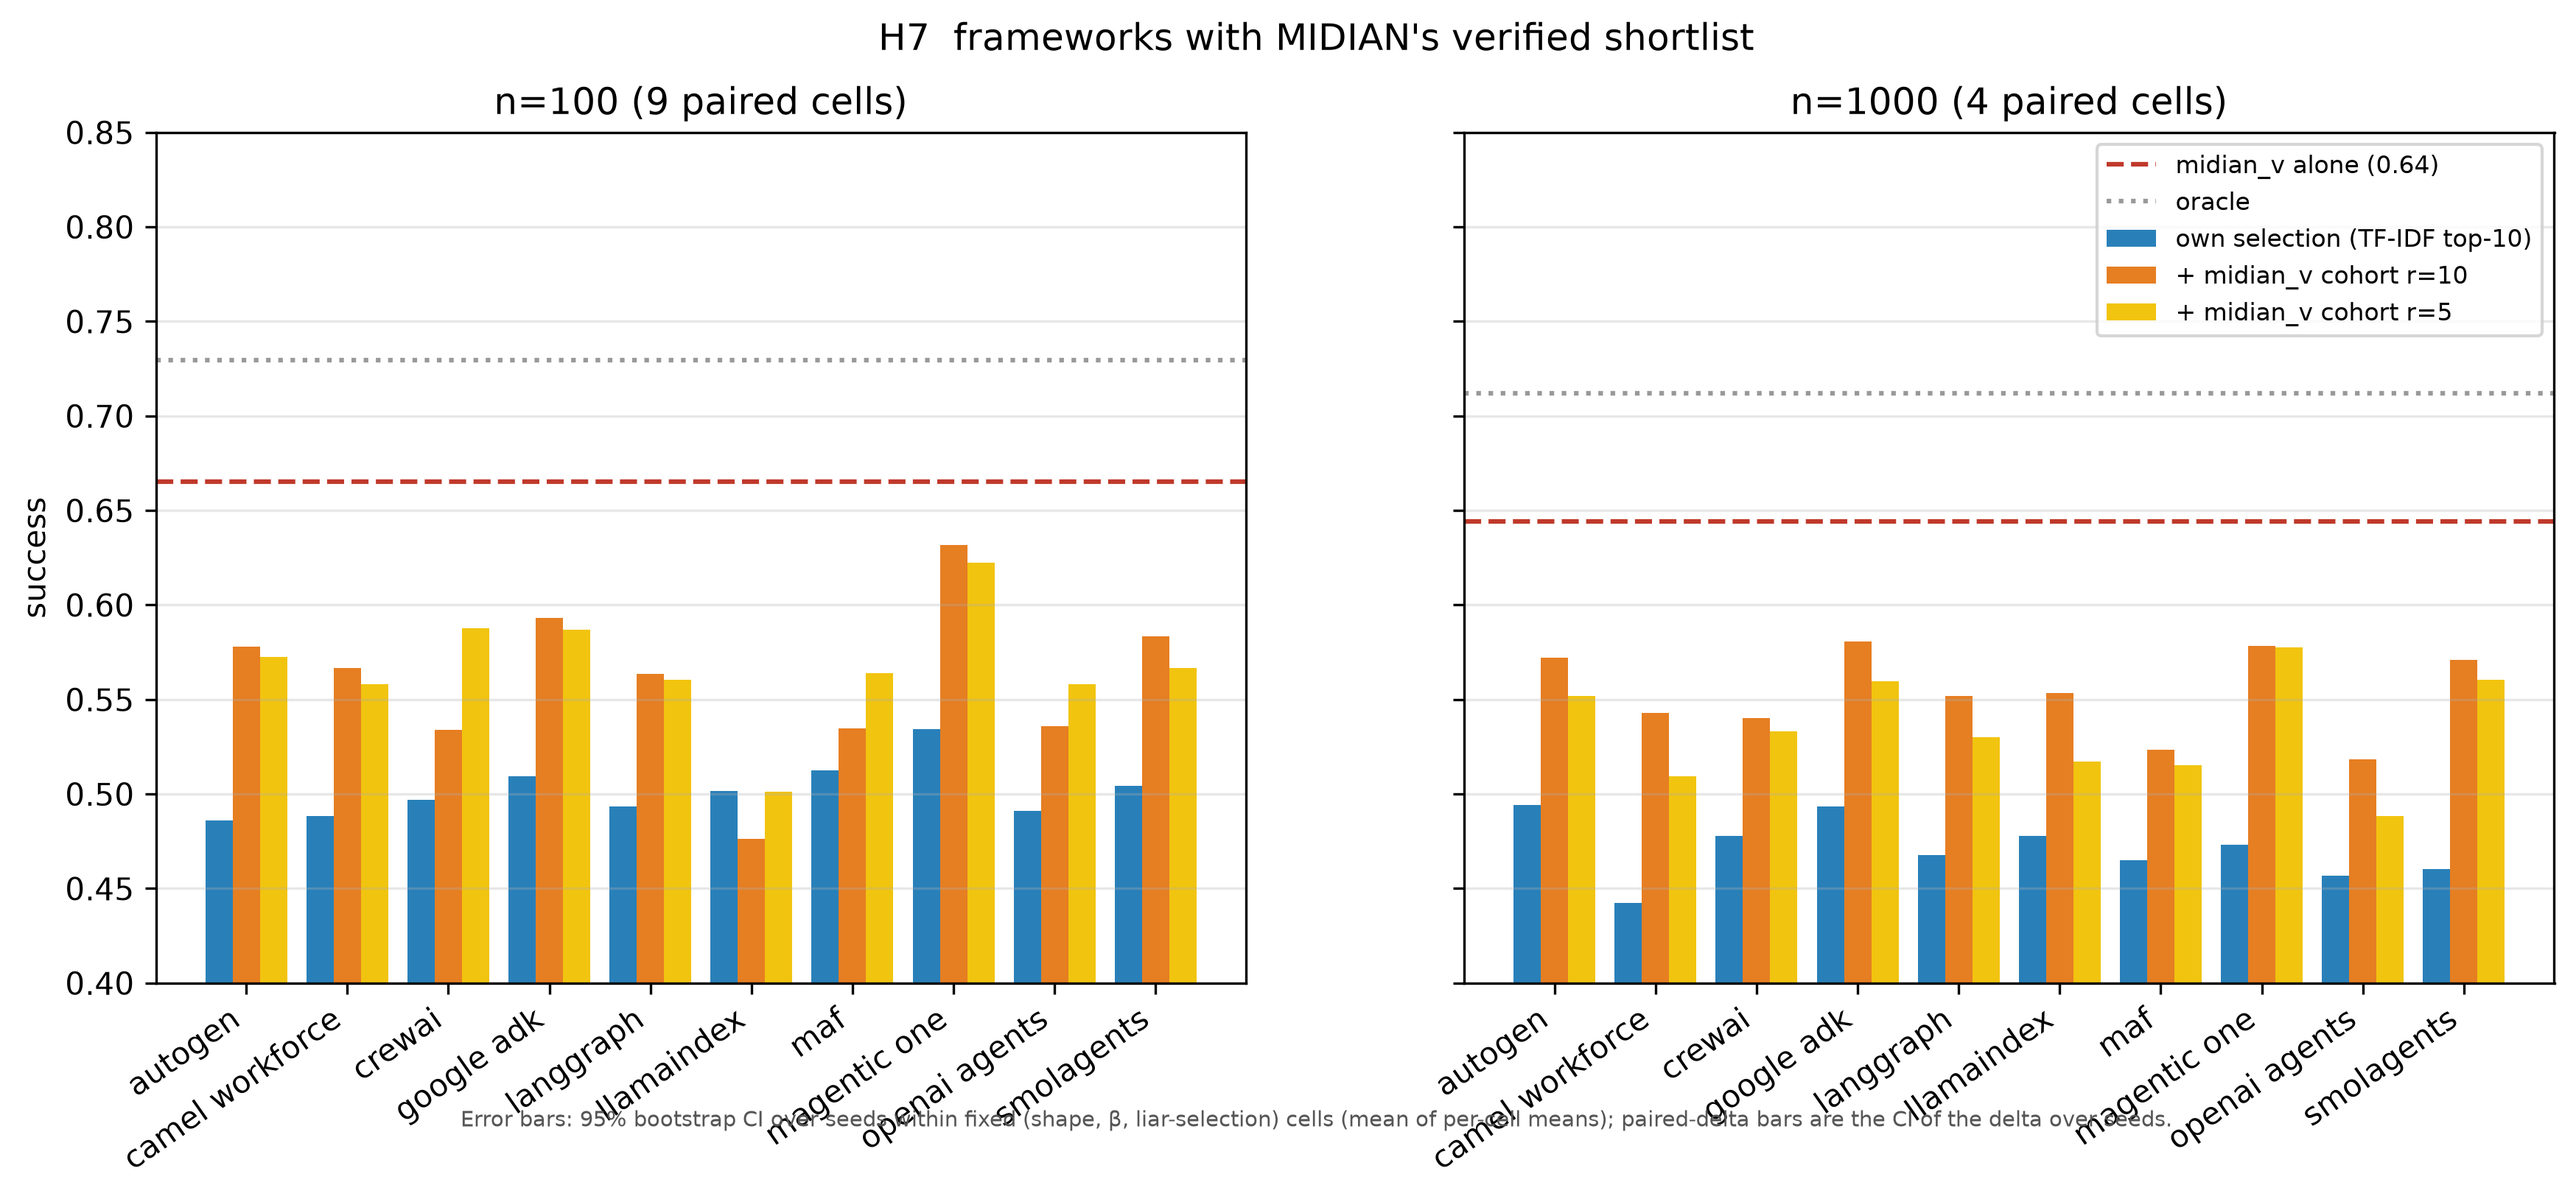
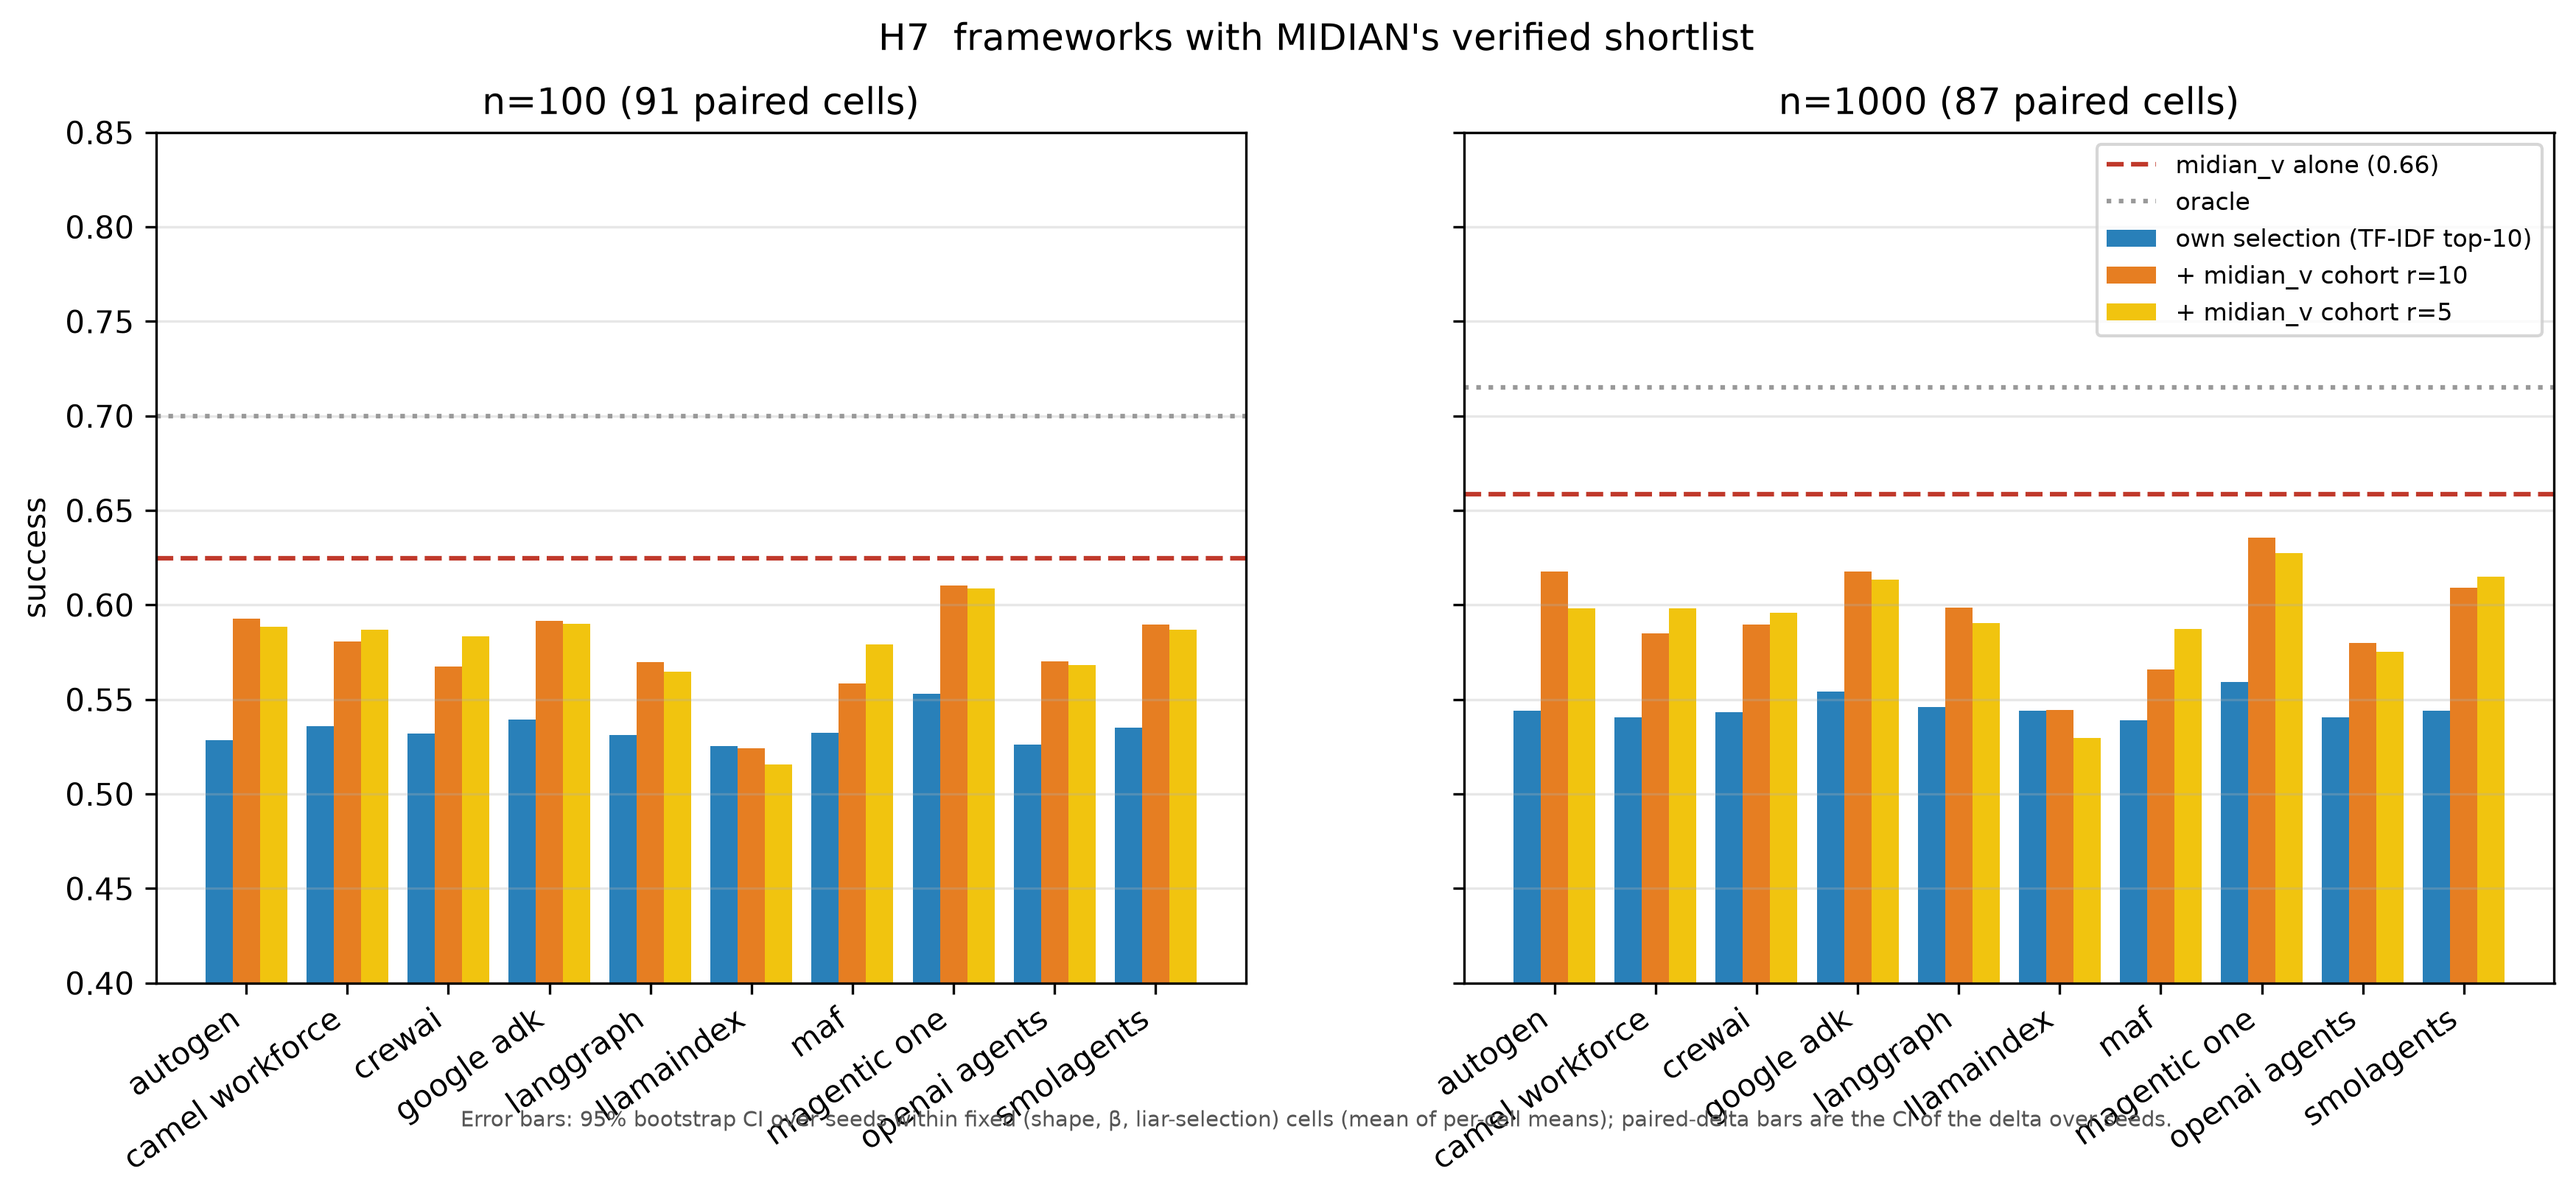
verified shortlist §1b (nine of ten frameworks +0.03..0.09, none reaches MIDIAN-V) + H7; RouterEval validation-tuned rerun complete (probe table 0.630 = best single; their kNN k=50 0.627; LinearR 0.667) -> Table 6 FINAL, X4

diff --git a/scripts/v3_figs.py b/scripts/v3_figs.py
@@ -31,12 +31,13 @@ def X3():
 
 def X4():
     R = os.environ.get("RTE_DATA", "/n/netscratch/sompolinsky_lab/Lab/rsiegelmann/rte"); df = pd.read_csv(f"{R}/results/routereval_terms/rows.csv")
-    show = ["oracle (theirs)", "LinearR (theirs, ridge)", "MLPR (theirs, sklearn)", "C-RoBERTa-cluster (theirs)", "Avengers top-1 K=64 (AAAI26, full labels)", "EmbedLLM MF (ICLR25, dim64 5ep)", "PRKnn (theirs)", "best single model", "probe_cluster16_b30", "probe_cluster16_b10", "probe_cluster3_b30", "random (theirs)"]
+    df["router"] = df.router.str.replace(r" \[val-tuned: .*\]$", " [tuned]", regex=True)
+    show = ["oracle (theirs)", "LinearR (theirs, ridge) [tuned]", "EmbedLLM MF (ICLR25) [tuned]", "MLPR (theirs, sklearn) [tuned]", "cluster table, full labels (C-RoBERTa-cluster / Avengers top-1) [tuned]", "PRKnn (theirs) [tuned]", "PRKnn (theirs)", "Avengers top-1 K=64 (AAAI26, full labels)", "best single model", "probe table [tuned]", "probe_cluster16_b30", "probe_cluster16_b10", "random (theirs)"]
     show = [s for s in show if s in set(df.router)]
-    fig, ax = plt.subplots(figsize=(9, 5)); t = df.groupby(["router", "m"]).mu.mean().unstack(); ax.set_prop_cycle(color=plt.cm.tab20.colors)
+    fig, ax = plt.subplots(figsize=(9.5, 5.5)); t = df.groupby(["router", "m"]).mu.mean().unstack(); ax.set_prop_cycle(color=plt.cm.tab20.colors)
     for s in show: ax.plot(t.columns, t.loc[s], marker="o", lw=2 if "probe" in s else 1.1, ls="--" if "probe" in s else "-", label=s)
     ax.set_xscale("log"); ax.set_xlabel("candidate pool size m (real LLMs)"); ax.set_ylabel("μ = mean test score of the routed model (12 datasets × 3 pools)"); ax.grid(alpha=.3); ax.legend(fontsize=7)
-    ax.set_title("X4  RouterEval on its own terms: their baselines, SOTA routers, and the probe-family table"); fig.savefig(f"{O}/X4_routereval_terms.png", dpi=300, bbox_inches="tight"); print("[X4] written")
+    ax.set_title("X4  RouterEval on its own terms (validation-tuned where marked): their baselines, SOTA routers, probe table"); fig.savefig(f"{O}/X4_routereval_terms.png", dpi=300, bbox_inches="tight"); print("[X4] written")
 
 
 def X5():

diff --git a/RESULTS.md b/RESULTS.md
@@ -91,17 +91,19 @@ path update (commit 3415f03). Wall-clock is reported only in the supervisor-late
 - Missing: 71 (n = 1,000) and 76 (n = 100) rows, almost all Magentic-One; the other eight frameworks move < 0.005.
 - Phase-1 replication (Q = 300, 3 seeds, 60 cells, earlier adapters): frameworks 0.51–0.54 vs MIDIAN 0.637 / V 0.659.
 
-### II.2 Why the frameworks lose, and what repairs them — legibility **FINAL**, verified shortlist **TODO**
+### II.2 Why the frameworks lose, and what repairs them — legibility **FINAL**, verified shortlist **PROVISIONAL (99%)**
 
 - The frameworks' only signal is the self-description, which over-claims by +0.4 (clipped) and correlates with true
   skill at Spearman **0.443** (specialist), **0.194** (heavy_tail), **0.295** (bimodal).
 - On **bimodal** populations every framework sits on the oracle (strong agents are strong everywhere, so description ≈
   skill). On **specialist** populations they collapse to **0.39 vs MIDIAN's 0.75**. The framework − MIDIAN gap is
   monotone in within-family legibility (Fig. H2).
-- **Verified shortlist (Fig. H7).** Phase 1: handing each framework MIDIAN-V's verified cohort as its shortlist lifted every
-  one by +0.04 to +0.12. **TODO:** the phase-2 table (10 frameworks × n ∈ {100, 1,000} × 10 seeds) needs grids
-  fw_live_n{100,1000}_verified, at 96.5% / 94.2%; missing 87 / 146 rows (Magentic-One 58 each, CAMEL 29 / 55, CrewAI 19);
-  ETA ~05:00 / ~02:00.
+- **Verified shortlist (Fig. H7) — PROVISIONAL (99.4–99.8%; ≤ 15 Magentic-One rows outstanding).** Given MIDIAN-V's
+  verified leaf cohort (r = 10) instead of the TF-IDF top-10, nine of ten frameworks gain +0.03 to +0.09 at n = 1,000
+  (Magentic-One +0.086 [+0.068, +0.103] → 0.632; AutoGen +0.077 → 0.609; smolagents +0.069; ADK +0.064; CrewAI +0.049;
+  LangGraph +0.047; CAMEL +0.040; OpenAI Agents +0.038; MAF +0.030; LlamaIndex +0.007, CI covers 0) and +0.03 to +0.06
+  at n = 100 — and none reaches MIDIAN-V (0.663 / 0.642): the supervisor's own pick among ten verified candidates still
+  costs 0.03–0.12. Full table: RESULTS_rte_v2.md §1b.
 
 ### II.3 The MIDIAN family: add audits first, then verification — **FINAL**
 
@@ -232,31 +234,34 @@ prior but stays below VA at every β and n (T3-7 mixed). Both are immune to liar
 the VA − KNN gap grows with n (HIT); its "within ±0.02 at β = 0" clause MISSES because KNN = flat frozen at every n.
 T3-10 HIT (latency).
 
-### III.4 RouterEval on its own terms (pools of 10 / 100 / 1,000 real LLMs, 12 datasets) — defaults **FINAL**, tuned **PROVISIONAL (9 of 12 datasets)**
+### III.4 RouterEval on its own terms (pools of 10 / 100 / 1,000 real LLMs, 12 datasets) — **FINAL** (defaults and validation-tuned)
 
-*Table 6. m = 1,000 candidates; μ = mean test score of the routed model; mean over 12 datasets × 3 pool types.*
+*Table 6. m = 1,000 candidates; μ = mean test score of the routed model; mean over 12 datasets × 3 pool types. "tuned" =
+hyperparameters selected on RouterEval's own validation split (k for PRKnn, K for cluster tables, α for ridge, width for
+MLPR, dim/epochs for EmbedLLM, b and K for the probe table), so no router is reported at a failure-mode default.*
 
-| router | μ | labelled outcomes |
-|---|---|---|
-| oracle (per prompt) | 0.986 | |
-| LinearR (theirs) | **0.661** | 3.35M |
-| EmbedLLM MF (ICLR 2025) | 0.658 | 3.35M |
-| MLPR (theirs) | 0.645 | 3.35M |
-| C-RoBERTa-cluster (theirs, K = 3) | 0.643 | 3.35M |
-| Avengers top-1, K = 16 (AAAI 2026) | 0.638 | 3.35M |
-| best single model | 0.629 | |
-| **probe table, 16 clusters × 30 probes** | **0.615** | 0.43M (13%) |
-| Avengers top-1, K = 64 (their default) | 0.597 | 3.35M |
-| PRKnn (theirs, k = 5) | 0.489 | 3.35M |
-| random | 0.461 | |
+| router | μ, their defaults | μ, validation-tuned | labelled outcomes |
+|---|---|---|---|
+| oracle (per prompt) | 0.986 | | |
+| LinearR (theirs) | 0.661 | **0.667** (α mostly 10) | 3.35M |
+| EmbedLLM MF (ICLR 2025) | 0.658 | 0.661 | 3.35M |
+| MLPR (theirs) | 0.645 | 0.654 | 3.35M |
+| cluster table, full labels (C-RoBERTa-cluster K = 3 / Avengers top-1) | 0.643 (K = 3) / 0.638 (K = 16) / 0.597 (K = 64, Avengers' default) | 0.647 (K = 3 or 16) | 3.35M |
+| **probe table** (ours; MIDIAN's estimate) | 0.615 (16 clusters × 30 probes) | **0.630** (mostly 16 × 30; 0.26M labels = 8%) | 0.43M / 0.26M |
+| best single model | 0.629 | | |
+| PRKnn (theirs) | 0.489 (k = 5) | 0.627 (k = 50) | 3.35M |
+| random | 0.461 | | |
 
-- Their KNN router is barely above random at 1,000 candidates; a linear probe of the prompt embedding is the strongest
-  published router; prompt-level routers beat the best single model by up to +0.14 on single-task datasets — the
-  headroom is per-prompt (T3-13 MISS). T3-11 HIT by letter (the table is above PRKnn), T3-12 MISS (−0.042 to the same
-  partition with 37× the labels), T3-14 HIT.
-- **Tuned rows** (hyperparameters of every router selected on the benchmark's own validation split, so no rival is
-  reported at a failure-mode default): 9 of 12 datasets in; the tuned table replaces this one when mmlu, mmlu_pro and
-  hellaswag finish (~02:30).
+- Tuning moves their kNN from below-random-plus-a-bit to the best-single-model level (k = 50 instead of 5), lifts the
+  others by 0.003–0.009, and lifts the probe table by 0.015; the ordering is unchanged: a linear probe of the prompt
+  embedding is the strongest published router (+0.038 over the best single model), the probe table sits at the best
+  single model with 8% of the labels, and everything is 0.32 below the per-prompt oracle.
+- Prompt-level routers beat the best single model by up to +0.14 on single-task datasets (gpqa, musr, bbh): the
+  headroom is per-prompt, which no family table sees (T3-13 MISS). T3-11 HIT (tuned probe table within 0.003 of tuned
+  PRKnn); T3-12 MISS (−0.017 to the tuned cluster table with 13× the labels); T3-14 HIT; T3-16 MISS (EmbedLLM +0.031).
+- Per-dataset tuned μ at m = 1,000 (LinearR / EmbedLLM / cluster / probe): mmlu 0.755 / 0.741 / 0.745 / 0.696; bbh 0.727 /
+  0.701 / 0.718 / 0.682; hellaswag 0.761 / 0.755 / 0.754 / 0.721; winogrande 0.811 / 0.816 / 0.790 / 0.756; gsm8k 0.725 /
+  0.745 / 0.725 / 0.722; math 0.463 / 0.449 / 0.463 / 0.414; gpqa 0.422 / 0.408 / 0.381 / 0.369.
 
 ### III.5 MIDIAN and every rival with liars on RouterEval's real LLM pools — **FINAL** except the 5k KNN column
 
@@ -340,8 +345,7 @@ recent routers fail to beat a simple baseline. RouterDC (DeBERTa fine-tune, GPU)
 | Magentic-One tails (7B and 14B arms) on fw_live_n100 / n1000 | 47 + 54 | ~08:00–10:00 | Table 1 FINAL, Appendix E fallback table, README headline |
 | CAMEL / CrewAI / minor stragglers on the same grids | ≈ 40 | same window | — |
 | Low-skill framework grids (Magentic-One 60 + CAMEL 5–7 each) | 65 + 67 | afternoon 09-04 | §II.5 low-skill block FINAL, H1 low-skill panel |
-| Verified-shortlist grids | 87 + 146 | ~05:00 / ~02:00 | §II.2 table, Fig. H7 |
-| RouterEval validation-tuned rerun | 3 datasets | ~02:30 | Table 6 tuned rows, Fig. X4 |
+| Verified-shortlist grids (last Magentic-One rows) | 4 + 15 | ~02:30 | §II.2 → FINAL |
 | Their KNN router at n = 5,000 | 16 rows | ~04:30 | Table 7 one column, Fig. X5 |
 | Final pass | — | after the above | energy tables re-synced (§II.6), memo compaction, STATUS, memory |
 
@@ -366,7 +370,7 @@ embeddings), MODEL-SAT (LLM fine-tune), Avengers voting (needs generations).
 | X1 | RouterBench protocol: quality vs cost, their routers vs the probe table | final |
 | X2 | RouteLLM protocol on RouterBench outcomes | final |
 | X3 | their KNN/MLP routers inside our benchmark vs MIDIAN variants, n = 100 / 1k / 10k | final |
-| X4 | RouterEval on its terms by pool size | defaults final; tuned rows pending |
+| X4 | RouterEval on its terms by pool size, defaults and tuned | final |
 | X5 | every arm with liars on real pools, n = 10 / 100 / 1,000 / 5,000 | pending 2 MLP cells + 5k KNN |
 
 Scripts: `rte.analyze`, `scripts/extra_figs.py`, `scripts/v3_figs.py`, `scripts/energy.py`, `scripts/routerbench_terms.py`,

diff --git a/RESULTS_rte_v2.md b/RESULTS_rte_v2.md
@@ -137,10 +137,31 @@ that channel changes little. At Q = 1000 and 10 seeds the picture is the 2026-09
 
 ## 1b. Frameworks given MIDIAN's verified shortlist (H7)
 
-**TODO(verified)**: fw_live_n100_verified is 1619/2520 rows (64.2%) and fw_live_n1000_verified 1062/2520 (42.1%) at
-13:40 on 2026-09-03 (missing rows are seeds 2–10 of Magentic-One, CAMEL, CrewAI, LlamaIndex first); filled when ≥ 90%.
-The 2026-09-02 result (3 seeds, Q = 300, old adapters) was a lift of +0.04 to +0.12 for every framework with every one
-still below `midian_v` alone; figure H7 regenerates from the new rows.
+Frameworks given MIDIAN-V's verified leaf cohort as their shortlist (`retrieval: midian`, r = 10 or r = 5 candidates)
+instead of the TF-IDF top-10 of self-descriptions; everything else unchanged (same supervisor, prompts, accounting).
+Grids fw_live_n{100,1000}_verified (3 shapes × 4 β × 10 seeds, Q = 1000; 99.4–99.8% complete, ≤ 15 Magentic-One rows
+outstanding), paired against the plain arm of fw_live_n{100,1000} on identical cells.
+
+| framework, n = 1000 | plain | MIDIAN-V shortlist r=10 | r=5 | lift r=10 [95% CI] | lift r=5 |
+|---|---|---|---|---|---|
+| Magentic-One (7B) | 0.552 | **0.632** | 0.623 | **+0.086** [+0.068, +0.103] | +0.078 |
+| AutoGen | 0.532 | 0.609 | 0.594 | +0.077 [+0.058, +0.096] | +0.060 |
+| smolagents | 0.526 | 0.595 | 0.608 | +0.069 [+0.053, +0.086] | +0.081 |
+| Google ADK | 0.542 | 0.606 | 0.608 | +0.064 [+0.049, +0.079] | +0.066 |
+| CrewAI | 0.528 | 0.577 | 0.587 | +0.049 [+0.031, +0.066] | +0.059 |
+| LangGraph | 0.537 | 0.581 | 0.585 | +0.047 [+0.030, +0.063] | +0.046 |
+| CAMEL workforce | 0.532 | 0.578 | 0.592 | +0.040 [+0.024, +0.054] | +0.055 |
+| OpenAI Agents | 0.528 | 0.566 | 0.568 | +0.038 [+0.025, +0.050] | +0.039 |
+| MAF | 0.524 | 0.553 | 0.580 | +0.030 [+0.013, +0.047] | +0.056 |
+| LlamaIndex | 0.533 | 0.541 | 0.528 | +0.007 [−0.015, +0.030] | −0.006 |
+| MIDIAN-V / MIDIAN / oracle | 0.663 / 0.654 / 0.723 | | | | |
+
+n = 100: lifts +0.060 (AutoGen), +0.059 (Magentic-One), +0.053 (smolagents), +0.049 (ADK), +0.045 (CAMEL), +0.038
+(OpenAI Agents), +0.037 (CrewAI), +0.036 (LangGraph), +0.025 (MAF), +0.007 (LlamaIndex, CI covers 0); shortlisted
+frameworks reach 0.53–0.61 against MIDIAN-V's 0.642. Nine of ten frameworks gain 0.03–0.09 from a verified shortlist
+(the phase-1 range +0.04 … +0.12 at Q = 300 / 3 seeds is reproduced at 10 seeds), and none reaches MIDIAN-V itself:
+given a cohort of ten verified candidates, the supervisor's own choice among them still costs 0.03–0.12. LlamaIndex's
+selector ignores the shortlist order and gains nothing. r = 5 vs r = 10: within ±0.02 of each other for every framework.
 
 ## 2. Legibility (H2)
 

diff --git a/RESULTS_rte_v3.md b/RESULTS_rte_v3.md
@@ -219,6 +219,16 @@ labels, 0.015 under the best single model. Every method is 0.3 below the per-pro
 headroom RouterEval advertises is per-prompt, and nothing family-level or label-cheap reaches it. MIDIAN's own
 mechanisms do not act here (no liars, no cost accounting); they act in D2.
 
+**D1, validation-tuned (rerun 2026-09-04 02:00; every router's hyperparameters chosen on RouterEval's own validation
+split — PRKnn k ∈ {5, 20, 50}, cluster K ∈ {3, 16, 64, 128}, ridge α ∈ {0.1, 1, 10}, MLPR width ∈ {256, 1024}, EmbedLLM
+(dim, epochs) ∈ {(64, 5), (232, 20)}, probe table b ∈ {3, 10, 30} × K ∈ {3, 16}).** m = 1,000, mean over 12 datasets × 3
+pools: LinearR 0.667 (α = 10 in 19/36 runs), EmbedLLM 0.661, MLPR 0.654, cluster table 0.647 (K = 3 in 18, K = 16 in 12),
+**probe table 0.630** (16 × 30 in 18, 3 × 30 in 12; 0.26M labels), best single model 0.629, PRKnn 0.627 (k = 50 in 27 of 36),
+random 0.463. Their kNN's default k = 5 was the failure mode (0.489); at k = 50 it is a best-single-model router. Verdicts
+under tuning: T3-11 HIT (probe table +0.003 vs PRKnn), T3-12 MISS by 0.017 (was 0.042), T3-13 unchanged (MISS: bbh +0.09,
+gpqa +0.07, musr +0.11 over the best single model for prompt-level routers), T3-16 MISS (EmbedLLM +0.031 over the probe
+table). Per-dataset tuned table: `results/routereval_terms/summary.md`.
+
 ### D2. Every arm with liars on RouterEval's real LLM pools (`rte/backends/routereval.py`; grids routereval_mmlu, routereval_mmlu5k; figure X5)
 
 The same score tables inside our World: agents = the pool's real LLMs, families = the 16 largest MMLU subjects (named in
